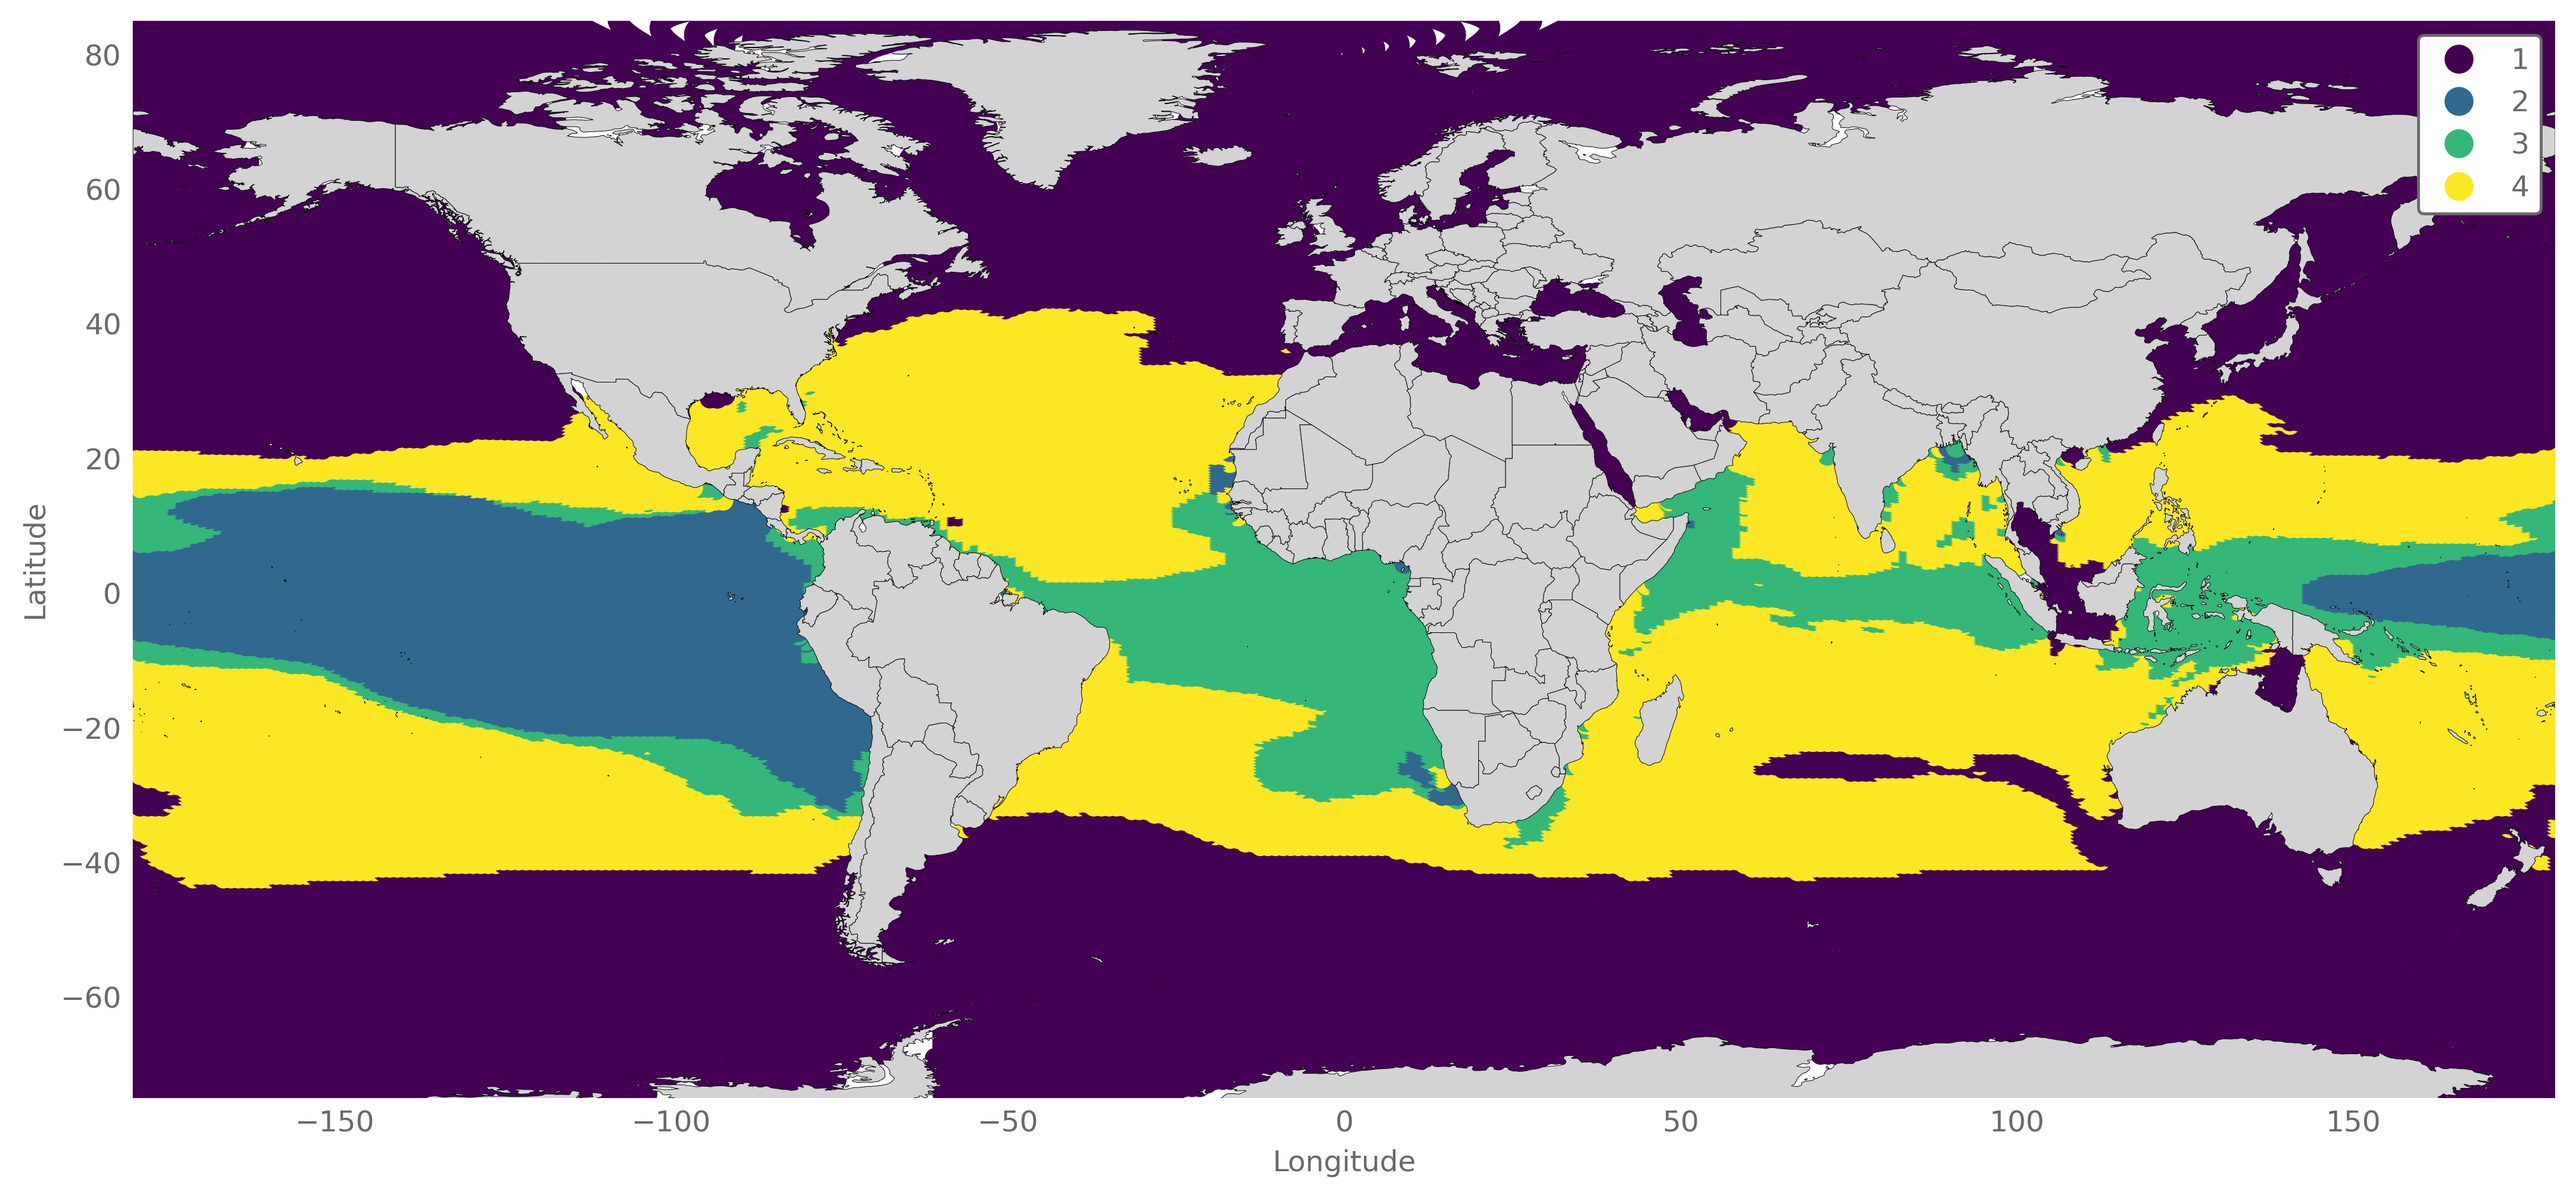
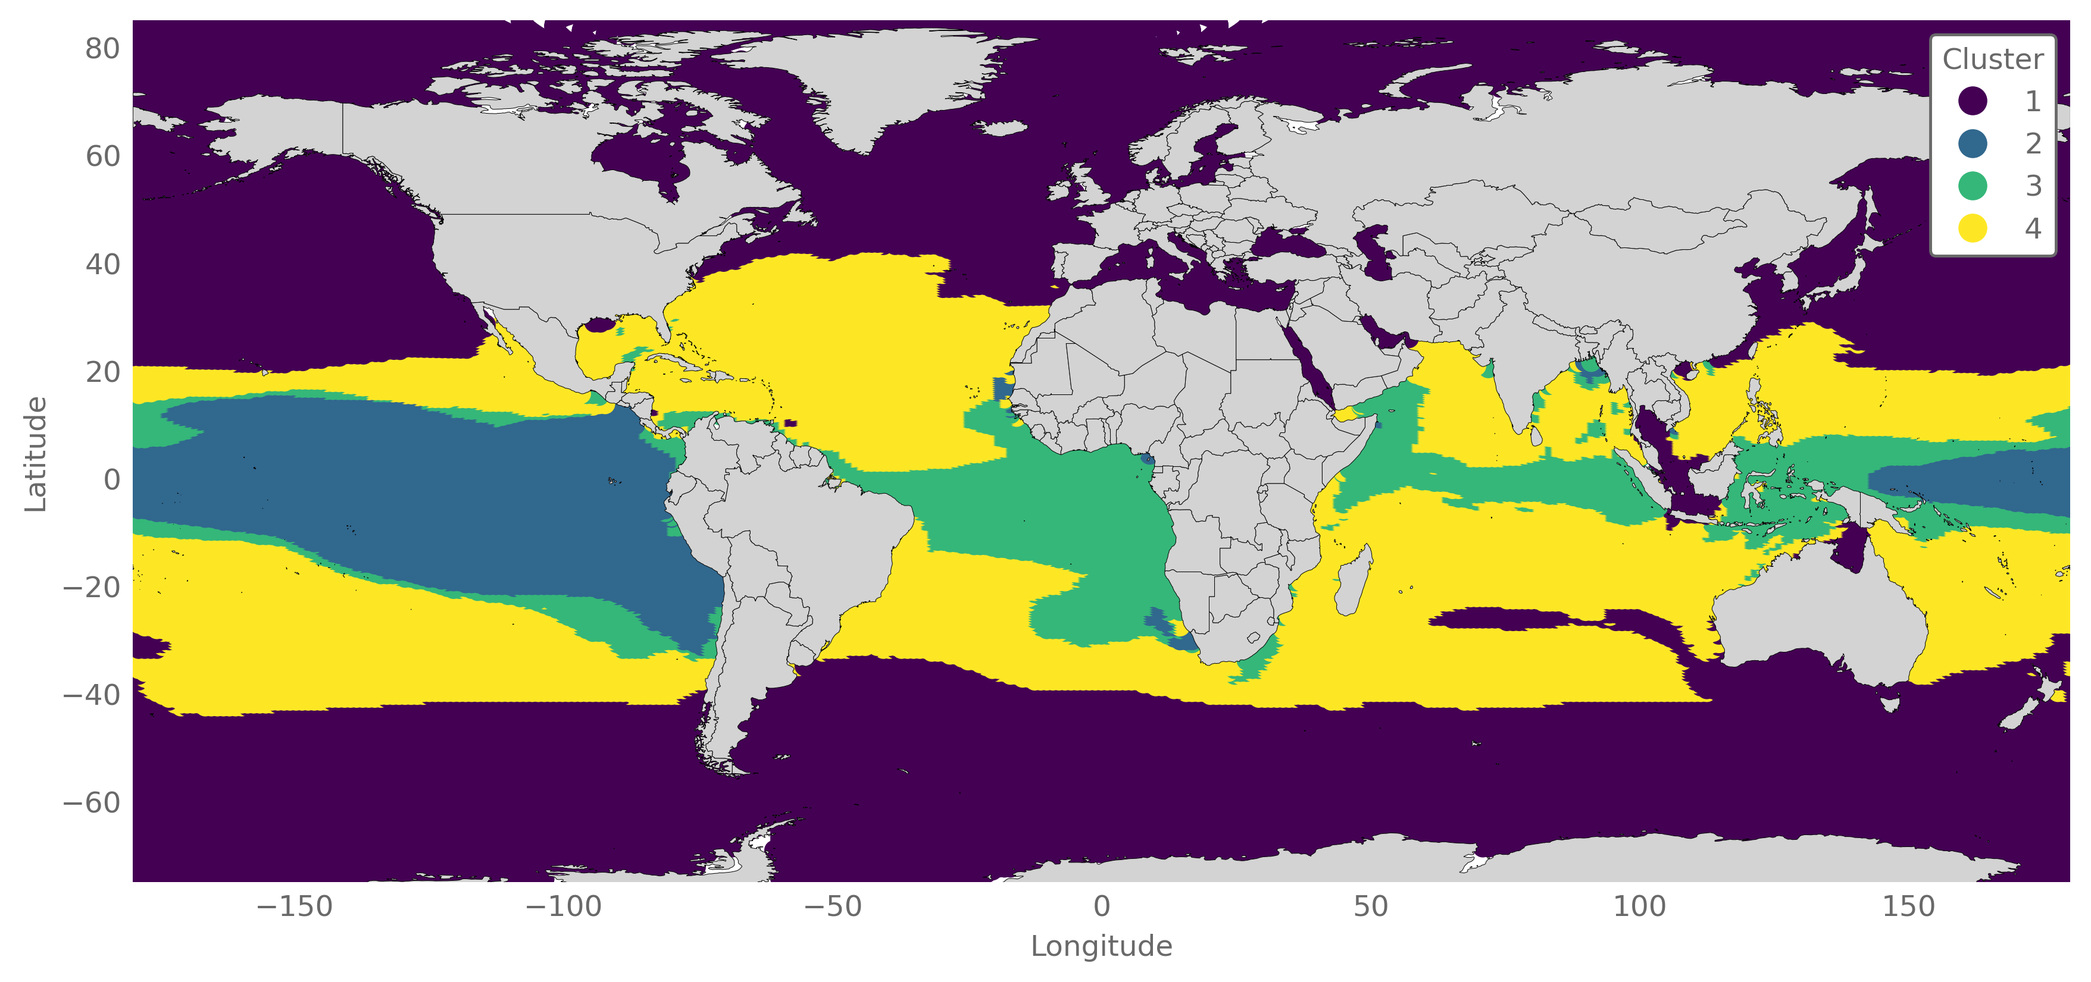
Quick fix figures

diff --git a/src/plotting/plotter_grid.py b/src/plotting/plotter_grid.py
@@ -27,10 +27,11 @@ def cluster_spatial(growth_df, global_or_US):
     growth_df["cluster"] = growth_df["cluster"].astype(str)
     ax = growth_df.plot(column="cluster", legend=True, cmap="viridis")
     fig = plt.gcf()
-    fig.set_size_inches(15, 15)
+    fig.set_size_inches(12, 12)
     global_map.plot(ax=ax, color="lightgrey", edgecolor="black", linewidth=0.2)
     ax.set_xlabel("Longitude")
     ax.set_ylabel("Latitude")
+    ax.get_legend().set_title("Cluster")
     if global_or_US == "US":
         ax.set_ylim(18, 55)
         ax.set_xlim(-130, -65)
@@ -80,7 +81,7 @@ def cluster_timeseries_all_parameters_q_lines(parameters, global_or_US):
     """
     clusters = 5 if global_or_US == "US" else 4
     fig, axes = plt.subplots(
-        nrows=5, ncols=clusters, sharey=True, sharex=True, figsize=(20, 20)
+        nrows=5, ncols=clusters, sharey=True, sharex=True, figsize=(12, 12)
     )
     i = 0
     for parameter, parameter_df in parameters.items():
@@ -102,10 +103,8 @@ def cluster_timeseries_all_parameters_q_lines(parameters, global_or_US):
             ax.plot(cluster_df.median(), color="black")
             if j == 0:
                 ax.set_ylabel(parameter)
-            if (i == 4 and global_or_US == "US") or (
-                i == 3 and global_or_US == "global"
-            ):
-                ax.set_xlabel("Months since war")
+            if i == 4:
+                ax.set_xlabel("Months since nuclear war")
             if i == 0:
                 ax.set_title(
                     "Cluster: " + str(cluster) + ", n: " + str(cluster_df.shape[0])
@@ -194,4 +193,3 @@ def main():
 
 if __name__ == "__main__":
     main()
-

diff --git a/src/plotting/plotter_lme.py b/src/plotting/plotter_lme.py
@@ -73,8 +73,3 @@ def main():
 
 if __name__ == "__main__":
     main()
-
-
-
-
-
